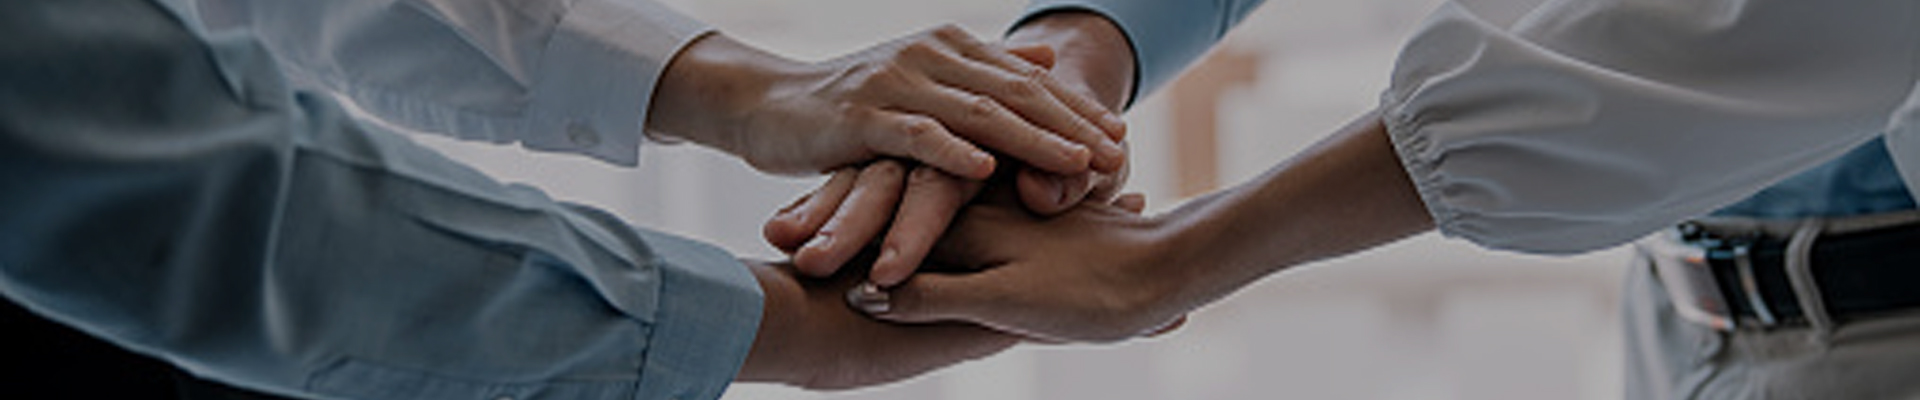
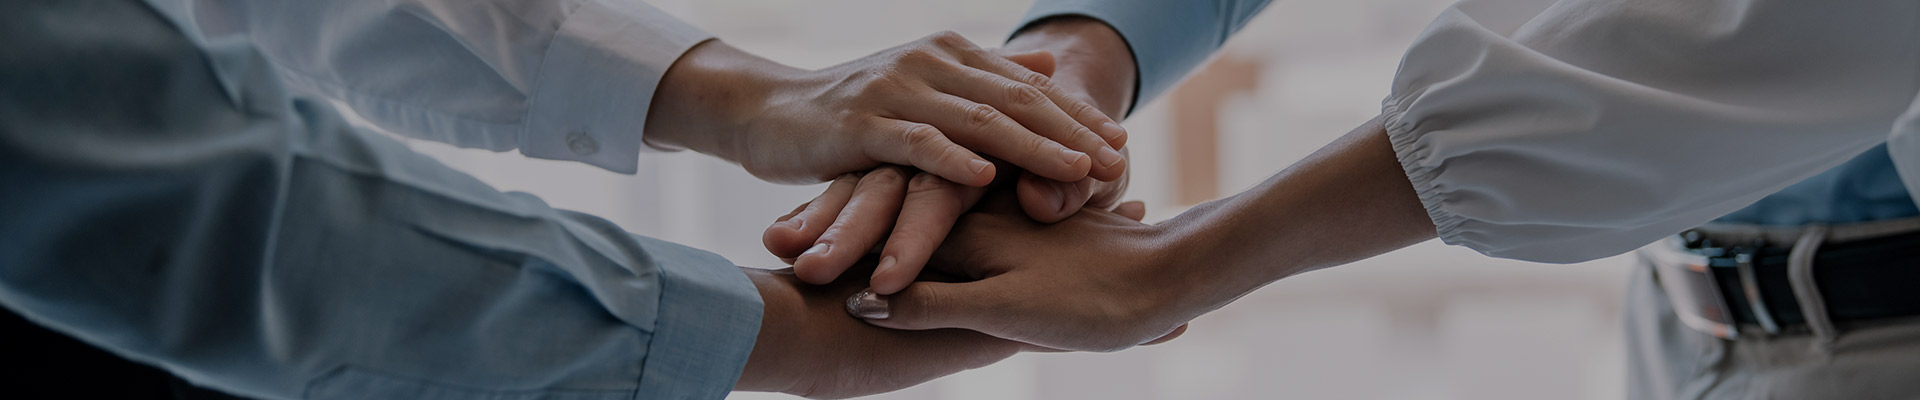
COMPANY > 비전 : 이미지/CSS 수정

diff --git a/src/main/webapp/html/css/company.css b/src/main/webapp/html/css/company.css
@@ -188,7 +188,7 @@
 }
 @media all and (max-width:812px){
     /*공통*/
-    .company .topVisual{height:40rem;margin-bottom:0}
+    .company .topVisual{height:40rem;margin-bottom:0;background:url(/images/company_visual_m.jpg) no-repeat center center;background-size: cover;}
     .company .topText{padding-top:7.5rem}
     .company .topText::before{width:6rem;height:0.4rem}
     .company .topText h4{font-size:2.8rem}
